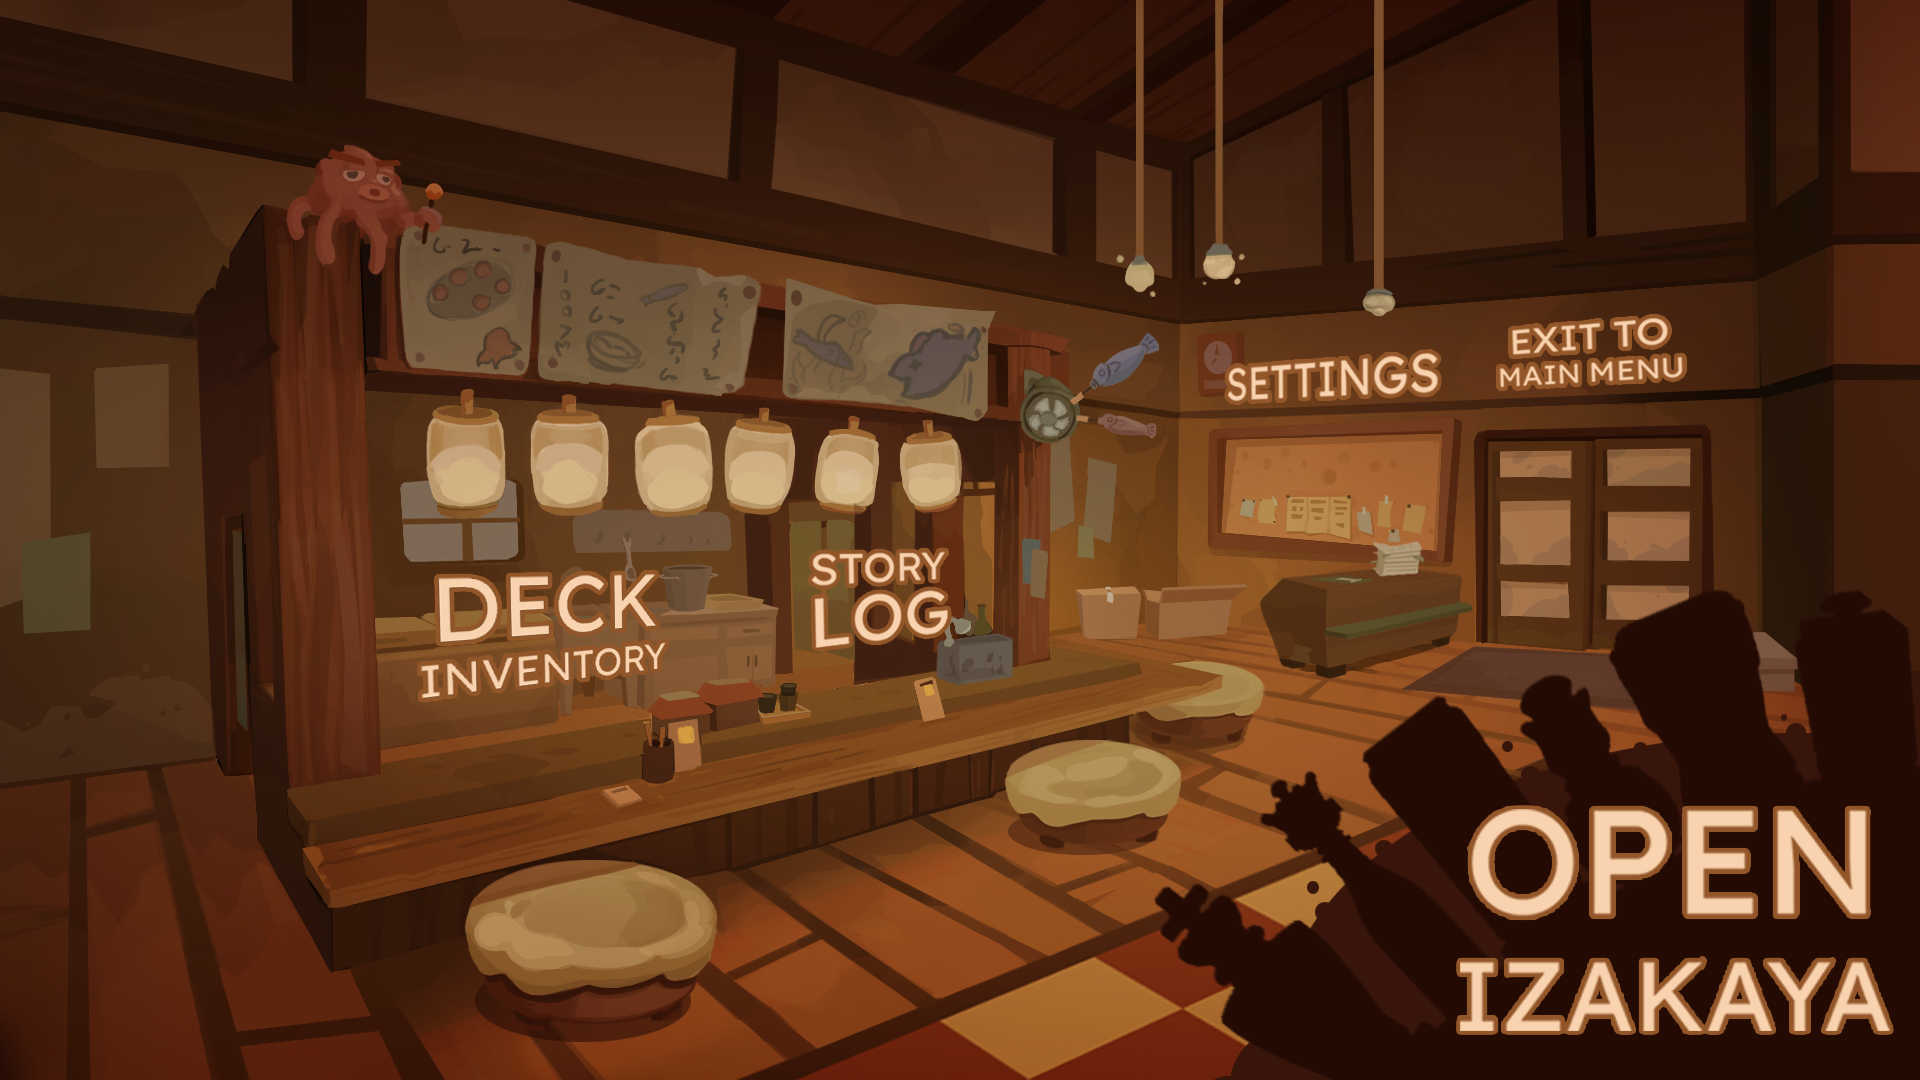
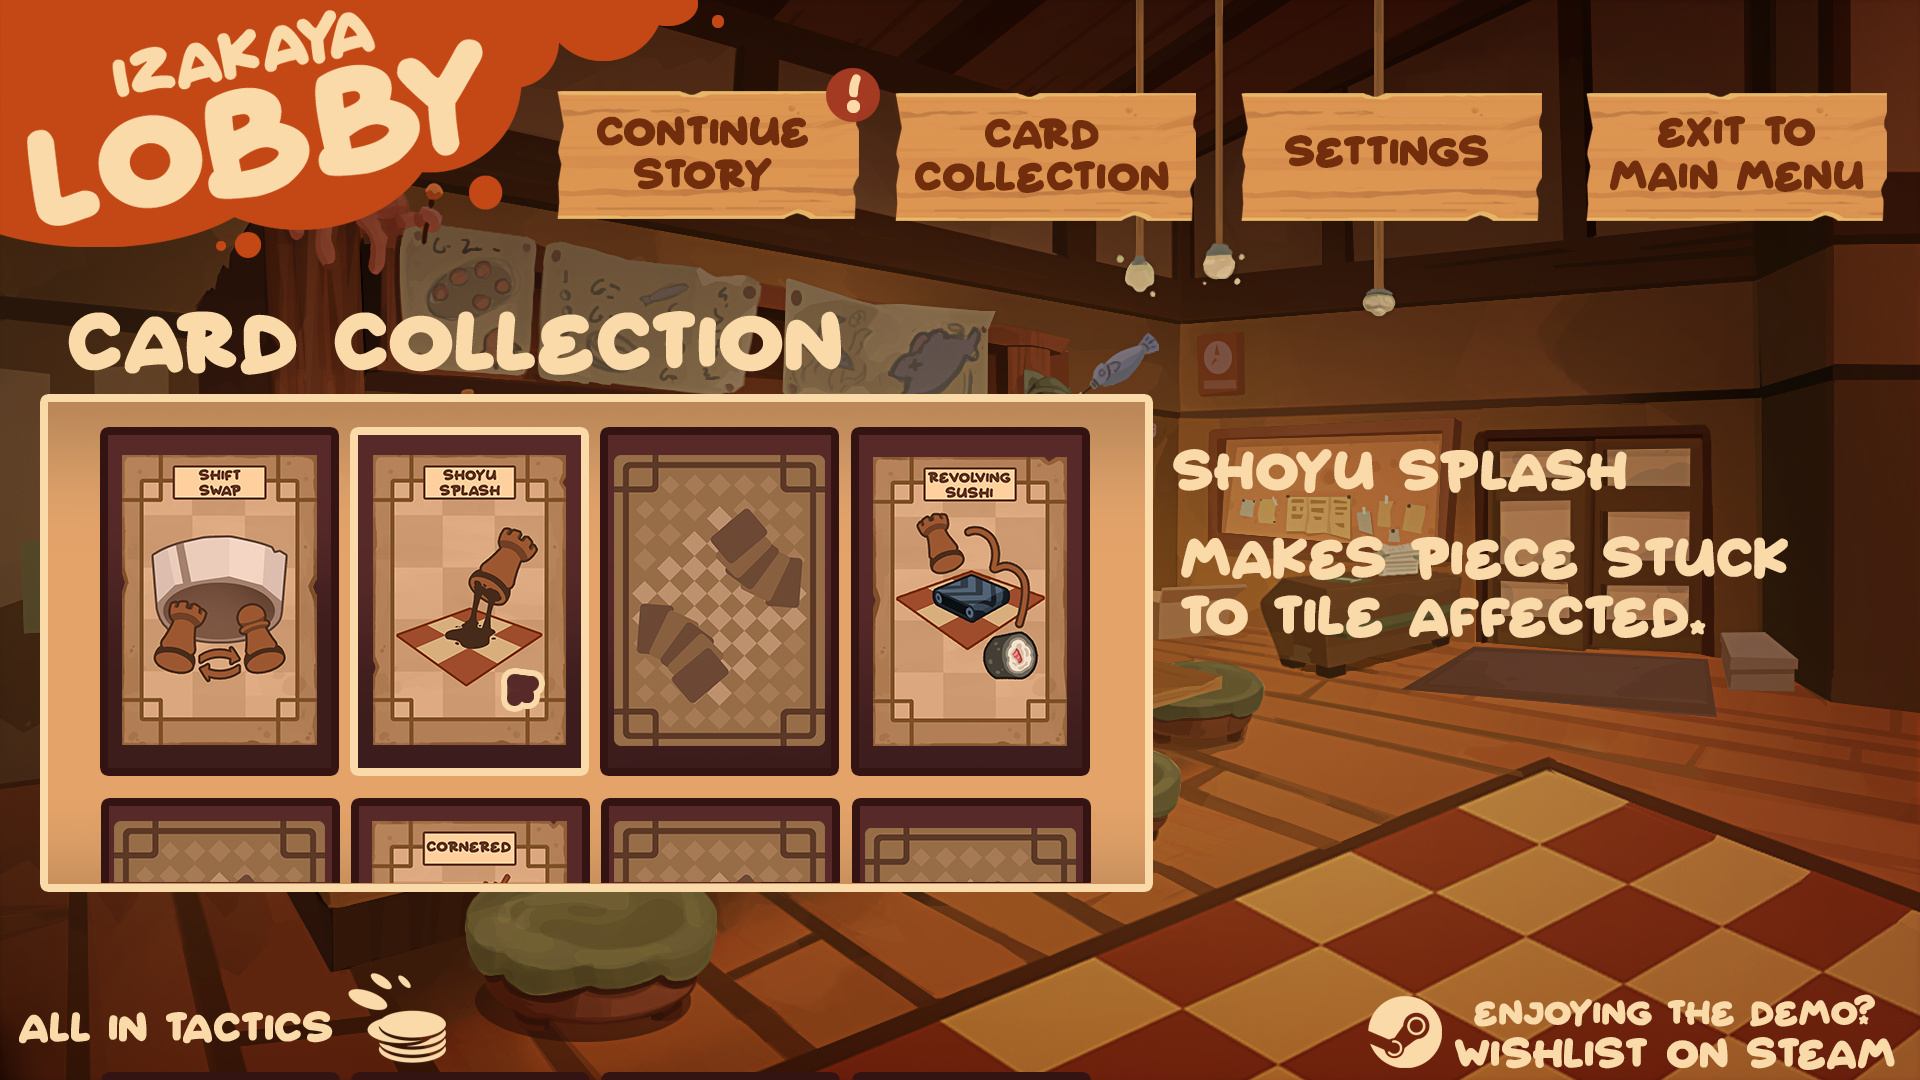
updating cozy chessu

diff --git a/cozychessupage.html b/cozychessupage.html
@@ -130,7 +130,23 @@
 
               <div class="swiper-wrapper align-items-center">
 
-            
+          
+                <div class="swiper-slide">
+                  <img src="assets/img/pergame/cozychessu/lobby.png" alt="">
+                </div>
+
+                  <div class="swiper-slide">
+                  <img src="assets/img/pergame/cozychessu/palmread.png" alt="">
+                </div>
+              
+                 <div class="swiper-slide">
+                  <img src="assets/img/pergame/cozychessu/reward.png" alt="">
+                </div>
+
+                   <div class="swiper-slide">
+                  <img src="assets/img/pergame/cozychessu/shiftswap.png" alt="">
+                </div>
+
 
               </div>
               <div class="swiper-pagination"></div>
